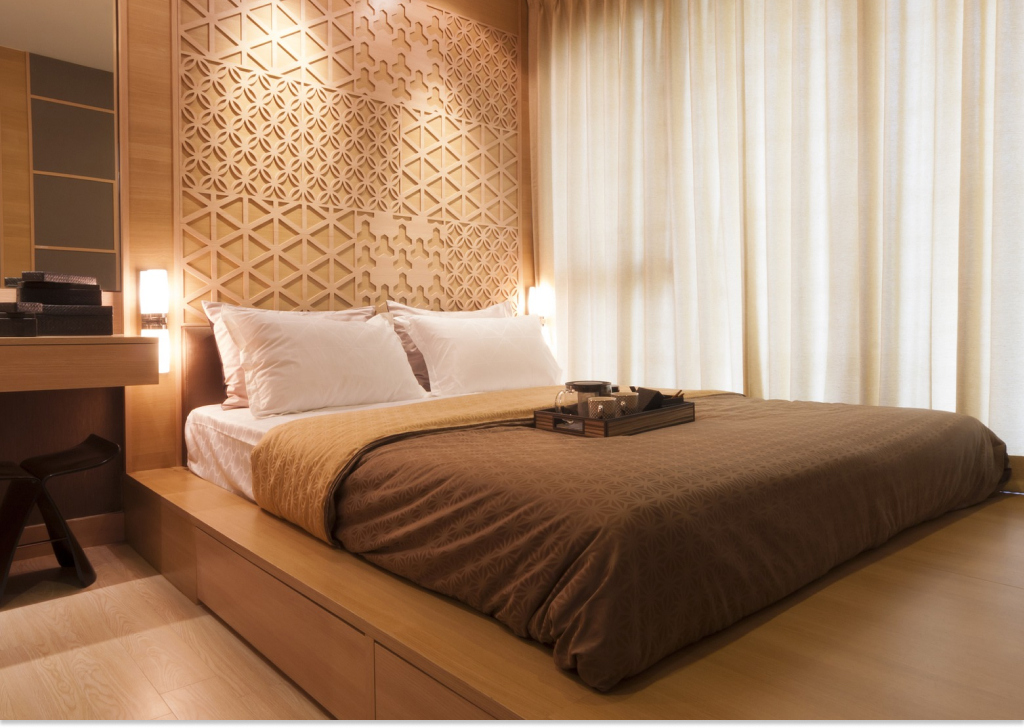
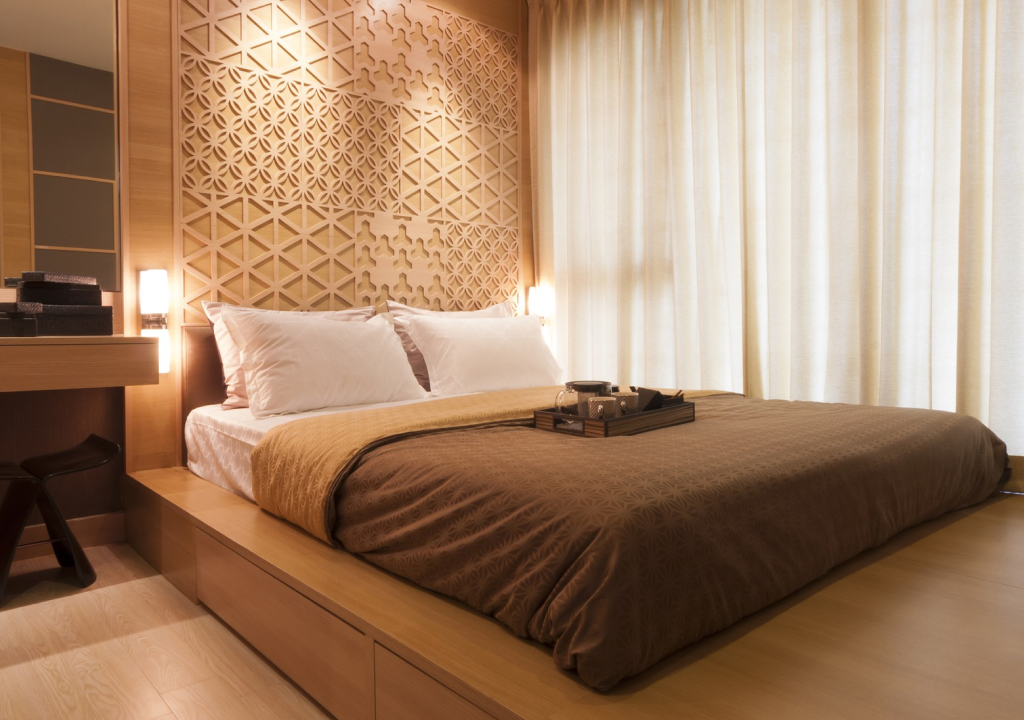
hero-slider вставлений в hero-room

diff --git a/src/partials/room-page.html/hero-room.html b/src/partials/room-page.html/hero-room.html
@@ -1,4 +1,126 @@
 <section class="hero-room">
+  <!--Container slider hero room-->
+  <div class="hero-slider swiper container">
+    <!--Wrapper  slider hero room-->
+    <div class="hero-slider__wrapper swiper-wrapper">
+      <!--Slides slider hero room-->
+      <div class="hero-slider__slide swiper-slide">
+          <picture>
+            <source
+            media="(min-width: 1280px)"
+            srcset="./images/room-page/room-desk/desk-room-hero1-1x.jpg 1x,
+            ./images/room-page/room-desk/desk-room-hero1-2x.jpg  2x
+            "
+            type="image/jpg"
+            />
+            <source
+            media="(min-width: 1024px)"
+            srcset="./images/room-page/room-tab/tab-room-hero1-1x.jpg 1x,
+            ./images/room-page/room-tab/tab-room-hero1-2x.jpg 2x
+            "
+            type="image/jpg"
+            />
+            <source
+            media="(max-width: 1023px)"
+            srcset="./images/room-page/room-mob/mob-room-hero1-1x.jpg 1x,
+            ./images/room-page/room-mob/mob-room-hero1-2x.jpg 2x
+            "
+            type="image/jpg"
+            />
+            <img
+            src="./images/room-page/room-mob/mob-room-hero1-1x.jpg"
+            alt="Двомісний номер люкс, картинка 1"
+            width=""
+            height=""
+            loading="lazy"
+            />
+        </picture>
+      </div>
+      <div class="hero-slider__slide swiper-slide">
+        <picture>
+            <source
+            media="(min-width: 1280px)"
+            srcset="
+            ./images/room-page/room-desk/desk-room-hero2-1x.jpg 1x,
+            ./images/room-page/room-desk/desk-room-hero2-2x.jpg 2x
+            "
+            type="image/jpg"
+            />
+            <source
+            media="(min-width: 1024px)"
+            srcset="
+            ./images/room-page/room-tab/tab-room-hero2-1x.jpg 1x,
+            ./images/room-page/room-tab/tab-room-hero2-2x.jpg 2x
+            "
+            type="image/jpg"
+            />
+            <source
+            media="(max-width: 1023px)"
+            srcset="./images/room-page/room-mob/mob-room-hero2-1x.jpg 1x,
+            ./images/room-page/room-mob/mob-room-hero2-2x.jpg 2x
+            "
+            type="image/jpg"
+            />
+            <img
+            src="./images/room-page/room-mob/mob-room-hero2-1x.jpg"
+            alt="Двомісний номер люкс, картинка 2"
+            width=""
+            height=""
+            loading="lazy"
+            />
+        </picture>
+      </div>
+      <div class="hero-slider__slide swiper-slide">
+        <picture>
+            <source
+            media="(min-width: 1280px)"
+            srcset="
+            ./images/room-page/room-desk/desk-room-hero3-1x.jpg 1x,
+            ./images/room-page/room-desk/desk-room-hero3-2x.jpg 2x
+            "
+            type="image/jpg"
+            />
+            <source
+            media="(min-width: 1024px)"
+            srcset="
+            ./images/room-page/room-tab/tab-room-hero3-1x.jpg 1x,
+            ./images/room-page/room-tab/tab-room-hero3-2x.jpg 2x
+            "
+            type="image/jpg"
+            />
+            <source
+            media="(max-width: 1023px)"
+            srcset="./images/room-page/room-mob/mob-room-hero3-1x.jpg 1x,
+            ./images/room-page/room-mob/mob-room-hero3-2x.jpg 2x
+            "
+            type="image/jpg"
+            />
+            <img
+            src="./images/room-page/room-mob/mob-room-hero3-1x.jpg"
+            alt="Двомісний номер люкс, картинка 3"
+            width=""
+            height=""
+            loading="lazy"
+            />
+        </picture>
+      </div>
+    </div>
+    <!--Swiper buttons hero-slider Hero room-->
+    <div class="swiper-nav hero-slider__nav">
+      <div id="hero-slider-prev" class="swiper-button-prev hero-slider__btn-prev">
+          <svg class="hero-slider__icon" width="40" height="40">
+              <use href="./images/icons/icons.svg#icon-arrow-left_40_40"></use>
+          </svg>
+      </div>
+      <div id="hero-slider-next" class="swiper-button-next hero-slider__btn-next">
+          <svg class="hero-slider__icon" width="40" height="40">
+              <use href="./images/icons/icons.svg#icon-arrow-right_40_40"></use>
+          </svg>
+      </div>
+    </div>
+  </div>
+  <!--End hero-slider Hero room-->
+  <!--Information above hero-slider-->
   <div class="container">
     <h1 class="hero-room__title">
       <span class="text-upper">ДВОМІСНИЙ НОМЕР</span> Люкс

diff --git a/src/js/slider-hero-room.js b/src/js/slider-hero-room.js
@@ -1,0 +1,52 @@
+// Ініціалізація Swiper
+const swiper = new Swiper ('.hero-slider', {
+
+    // Стрілки
+    navigation: {
+        nextEl: '#hero-slider-next',
+        prevEl: '#hero-slider-prev'
+    },
+
+    // Автовисота
+    autoHeight: true,
+
+    // Перемикання при кліку на слайд
+    slideToClickedSlide: true,
+    // Курсор перетягування
+    grabCursor: true,
+
+    // Керування клавіатурою
+    keyboard: {
+        // Вмикання/вимикання
+        enabled: true,
+        // Вмикання/вимикання, коли слайдер у вьюпорті
+        onlyInViewport: true,
+    },
+
+    // Кількість слайдів для показу
+    slidesPerView: 1,
+
+    // Відключення функціоналу, якщо слайдів меньше ніж треба
+    watchOverflow: true,
+
+    // Активний слайд по центру
+    centeredSlides: true,
+
+    // Безкінечність
+    loop: true,
+
+    // Ефект перемикання слайдерів
+    // Зміна прозорості
+    effect: 'fade',
+
+    // Перемикання коліщатком миші
+    //mousewheel: {
+    //    invert: true,
+    //  },
+
+    // Вмикання/вимикання перетягування на ПК
+    simulateTouch: true,
+    // Чутливість свайпу 
+    touchRatio: 1,
+
+});

diff --git a/src/sass/components/_slider-arrows.scss b/src/sass/components/_slider-arrows.scss
@@ -34,3 +34,48 @@
         fill: $color-accent;
     }
 }
+
+// Стилі стрілок hero слайдерів
+.hero-slider__btn-prev,
+.hero-slider__btn-next {
+    background-color: rgba(0, 0, 0, 0.65);
+    width: 40px;
+    height: 40px;
+
+    @include desktop {
+        top: 432px;
+    }
+
+    &::after,
+    &::after {
+        display: none;
+    }
+}
+
+.hero-slider__btn-prev {
+    left: 15px;
+
+    @include tablet {
+        left: 47px;
+    }
+
+    @include desktop {
+        left: 85px;
+    }
+
+}
+.hero-slider__btn-next {
+    right: 15px;
+
+    @include tablet {
+        right: 47px;
+    }
+
+    @include desktop {
+        right: 85px;
+    }
+}
+
+.hero-slider__icon {
+    fill: $color-accent;
+}

diff --git a/src/sass/layout/room-page/_hero-room.scss b/src/sass/layout/room-page/_hero-room.scss
@@ -1,13 +1,13 @@
 .hero-room {
   position: relative;
-  padding-top: 483px;
-  padding-bottom: 14px;
+  //padding-top: 483px;
+  //padding-bottom: 14px;
 
   color: $color-white;
 
   @include tablet {
-    padding-top: 468px;
-    padding-bottom: 20px;
+    //padding-top: 468px;
+    //padding-bottom: 20px;
   }
 }
 
@@ -49,6 +49,7 @@
 }
 
 .hero-room__address {
+  z-index: 1001;
   background-color: transparent;
   @include max-tablet {
     position: absolute;

diff --git a/src/room-page.html b/src/room-page.html
@@ -53,5 +53,6 @@
     ></script>
     <script type="module" src="./js/aos-script.js"></script>
     <script type="module" src="./js/modal.js"></script>
+    <script type="module" src="./js/slider-hero-room.js"></script>
   </body>
 </html>

diff --git a/src/sass/components/_hero-slider.scss b/src/sass/components/_hero-slider.scss
@@ -1,0 +1,12 @@
+.hero-slider {
+    width: 100%;
+    margin: 0 auto;
+    padding: 0;
+
+    /*автоширина*/
+    &__slide {
+        min-width: fit-content;
+        object-fit: cover;
+        flex-shrink: 1;
+    }
+}

diff --git a/src/sass/layout/_header.scss b/src/sass/layout/_header.scss
@@ -2,6 +2,7 @@
   position: absolute;
   top: 0;
   left: 0;
+  z-index: 1001;
   width: 100%;
   height: fit-content;
   padding-top: 16px;

diff --git a/src/sass/components/_module.scss b/src/sass/components/_module.scss
@@ -25,3 +25,6 @@
 
 // decor for main
 @import './page-decor';
+
+// hero-slider
+@import './hero-slider';
